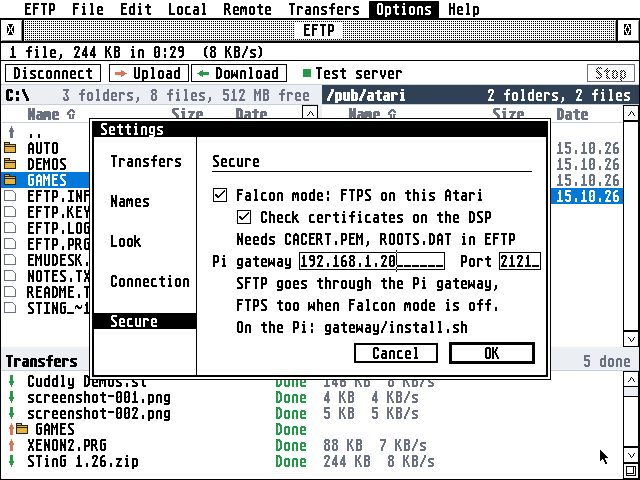
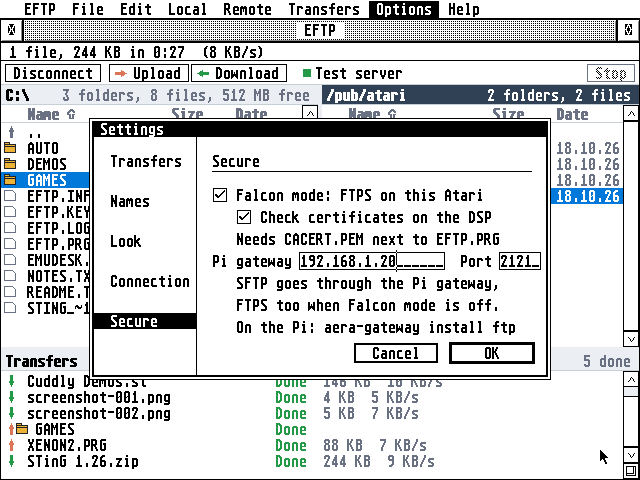
^, opens Settings (guidelines 6.1)
Options > Settings shows ^, and the key opens it (through key_ctrl, as
the other shortcuts), as in EMail, ClaudeST and EContact; the guide's
keys and Help > Keys list it. esc_test opens Settings with ^, the second
time. settings.png again: Settings > Secure names aera-gateway now.

Claude-Session: https://claude.ai/code/session_014XE5ftAAPaBvUdzFjsDDv9

diff --git a/tests/hatari/esc_test.py b/tests/hatari/esc_test.py
@@ -77,10 +77,14 @@ try:
         time.sleep(2)
         after = pixels(r.shot("sites-after-%s" % name))
         check(closed(opened, after, plain), "%s closes the Site Manager, the typing gone" % name)
-        # Settings (Options > Settings), from the menu
-        r.click(404, 9)
-        time.sleep(1)
-        r.click(424, 27)
+        # Settings: from the menu (Options > Settings) the first time, by
+        # ^, the second (the AERA guidelines, 6.1)
+        if key == K["ESC"]:
+            r.click(404, 9)
+            time.sleep(1)
+            r.click(424, 27)
+        else:
+            r.key(0x33, ctrl=True)
         r.move(600, 450)
         time.sleep(2)
         opened = pixels(r.shot("settings-open-%s" % name))

diff --git a/ui/main.c b/ui/main.c
@@ -99,7 +99,7 @@ static const MBAR_ITEM m_xfer[] = {
 	{ 0, 0, 0 }
 };
 static const MBAR_ITEM m_opts[] = {
-	{ "Settings...", 0, C_SETTINGS },
+	{ "Settings...", "^,", C_SETTINGS },
 	{ "Font...", 0, C_FONT },
 	{ "Show hidden files", 0, C_HIDDEN },
 	{ "-", 0, 0 },
@@ -682,6 +682,7 @@ static int shortcut(short kstate, short key)
 		case 0x2e: cmd = C_COPY; break;		/* C */
 		case 0x13: cmd = C_REFRESH; break;	/* R */
 		case 0x26: cmd = C_LOG; break;		/* L */
+		case 0x33: cmd = C_SETTINGS; break;	/* , */
 		}
 		if (cmd != C_NONE) {
 			command(cmd);

diff --git a/ui/dialogs.c b/ui/dialogs.c
@@ -1213,6 +1213,7 @@ void dlg_keys(void)
 		"Shift+click  one more      Control+click  a range",
 		"Space  select and move on  a letter: to that name",
 		"^L  server messages        F10 Hebrew keyboard",
+		"^,  Settings",
 		"During a transfer: Esc or Stop ends it",
 		"^W, ^Q  quit               Help  the user guide",
 		"The file keys act on the pane with the keyboard"

diff --git a/docs/GUIDE.md b/docs/GUIDE.md
@@ -338,7 +338,7 @@ answers in black, errors in red. ^L again shows the transfers.
 
 ## Settings
 
-Options > Settings, in five parts:
+Options > Settings (^,), in five parts:
 
 - **Transfers**: a file that is already there, keeping dates, a bell
   when a transfer of more than half a minute ends, the extensions sent
@@ -384,6 +384,7 @@ F10 switches to the Israeli keyboard for typing Hebrew names.
 | Esc, Undo      | in a dialog or an alert: Cancel                |
 | Space, Insert  | select the file under the cursor and move on   |
 | ^L             | server messages / transfers                    |
+| ^,             | Settings                                       |
 | F10            | Hebrew keyboard                                |
 | Help           | this guide, or the keys                        |
 | ^Q, ^W         | quit (^W closes the window, EFTP's only one)  |
